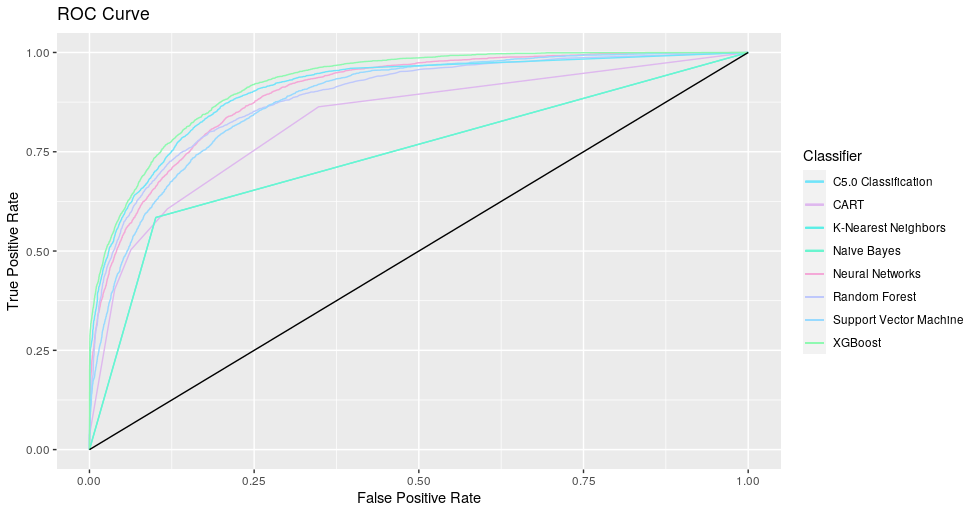
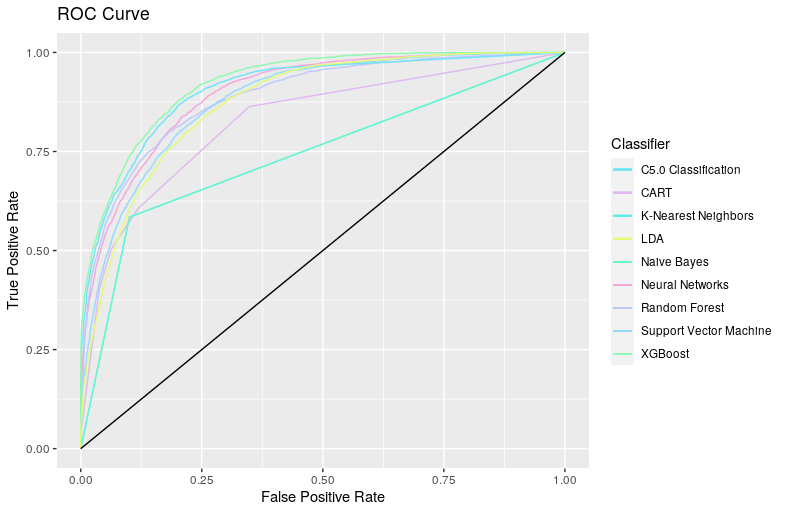
📖 docs(readme.md): add ROC curve of LDA algorithm and calculate AUC area

diff --git a/README.md b/README.md
@@ -907,6 +907,11 @@ adult.xgb.pr <- prediction(adult.xgb.pred.prob, adult.test$income)
 adult.xgb.prf <- performance(adult.xgb.pr, measure = "tpr", x.measure = "fpr")
 adult.xgb.dd <- data.frame(FP = adult.xgb.prf@x.values[[1]], TP = adult.xgb.prf@y.values[[1]])
 
+# LDA
+adult.lda.pr <- prediction(as.numeric(adult.lda.pred$x), adult.test$income)
+adult.lda.prf <- performance(adult.lda.pr, measure = "tpr", x.measure = "fpr")
+adult.lda.dd <- data.frame(FP = adult.lda.prf@x.values[[1]], TP = adult.lda.prf@y.values[[1]])
+
 adult.roc <- ggplot() + 
   geom_line(data = adult.nn.dd, aes(x = FP, y = TP, color = 'Neural Networks')) + 
   geom_line(data = adult.cart.dd, aes(x = FP, y = TP, color = 'CART')) + 
@@ -916,6 +921,7 @@ adult.roc <- ggplot() +
   geom_line(data = adult.knn.dd, aes(x = FP, y = TP, color = 'K-Nearest Neighbors')) +
   geom_line(data = adult.nb.dd, aes(x = FP, y = TP, color = 'Naive Bayes')) +
   geom_line(data = adult.xgb.dd, aes(x = FP, y = TP, color = 'XGBoost')) +
+  geom_line(data = adult.lda.dd, aes(x = FP, y = TP, color = 'LDA')) +
   geom_segment(aes(x = 0, xend = 1, y = 0, yend = 1)) +
   ggtitle('ROC Curve') + 
   labs(x = 'False Positive Rate', y = 'True Positive Rate') 
@@ -928,7 +934,8 @@ adult.roc + scale_colour_manual(name = 'Classifier', values = c(
   'C5.0 Classification' = '#70E4FA',
   'K-Nearest Neighbors' = '#59EEE7',
   'Naive Bayes' = '#69F6CF',
-  'XGBoost' = '#8EF9B0'
+  'XGBoost' = '#8EF9B0',
+  'LDA' = '#E2FB75'
 ))
 ```
 
@@ -942,10 +949,11 @@ adult.auc <- rbind(performance(adult.nn.pr, measure = 'auc')@y.values[[1]],
              performance(adult.c50.pr, measure = 'auc')@y.values[[1]],
              performance(adult.knn.pr, measure = 'auc')@y.values[[1]],
              performance(adult.nb.pr, measure = 'auc')@y.values[[1]],
-             performance(adult.xgb.pr, measure = 'auc')@y.values[[1]])
+             performance(adult.xgb.pr, measure = 'auc')@y.values[[1]],
+             performance(adult.lda.pr, measure = 'auc')@y.values[[1]])
 rownames(adult.auc) <- (c('Neural Networks', 'Decision Tree', 'Random Forest',
                     'Support Vector Machine', 'C5.0 Classification', 
-                    'K-Nearest Neighbors', 'Naive Bayes', 'XGBoost'))
+                    'K-Nearest Neighbors', 'Naive Bayes', 'XGBoost', 'LDA'))
 colnames(adult.auc) <- 'Area Under ROC Curve'
 round(adult.auc, 4)
 ```
@@ -960,6 +968,7 @@ round(adult.auc, 4)
 # K-Nearest Neighbors                  0.7419
 # Naive Bayes                          0.6700
 # XGBoost                              0.9232
+# LDA                                  0.8741
 ```
 
 通过计算 AUC 所以可以得出 XGBoost 算法的的真实性最好，Naive Bayes 的真实性最差
